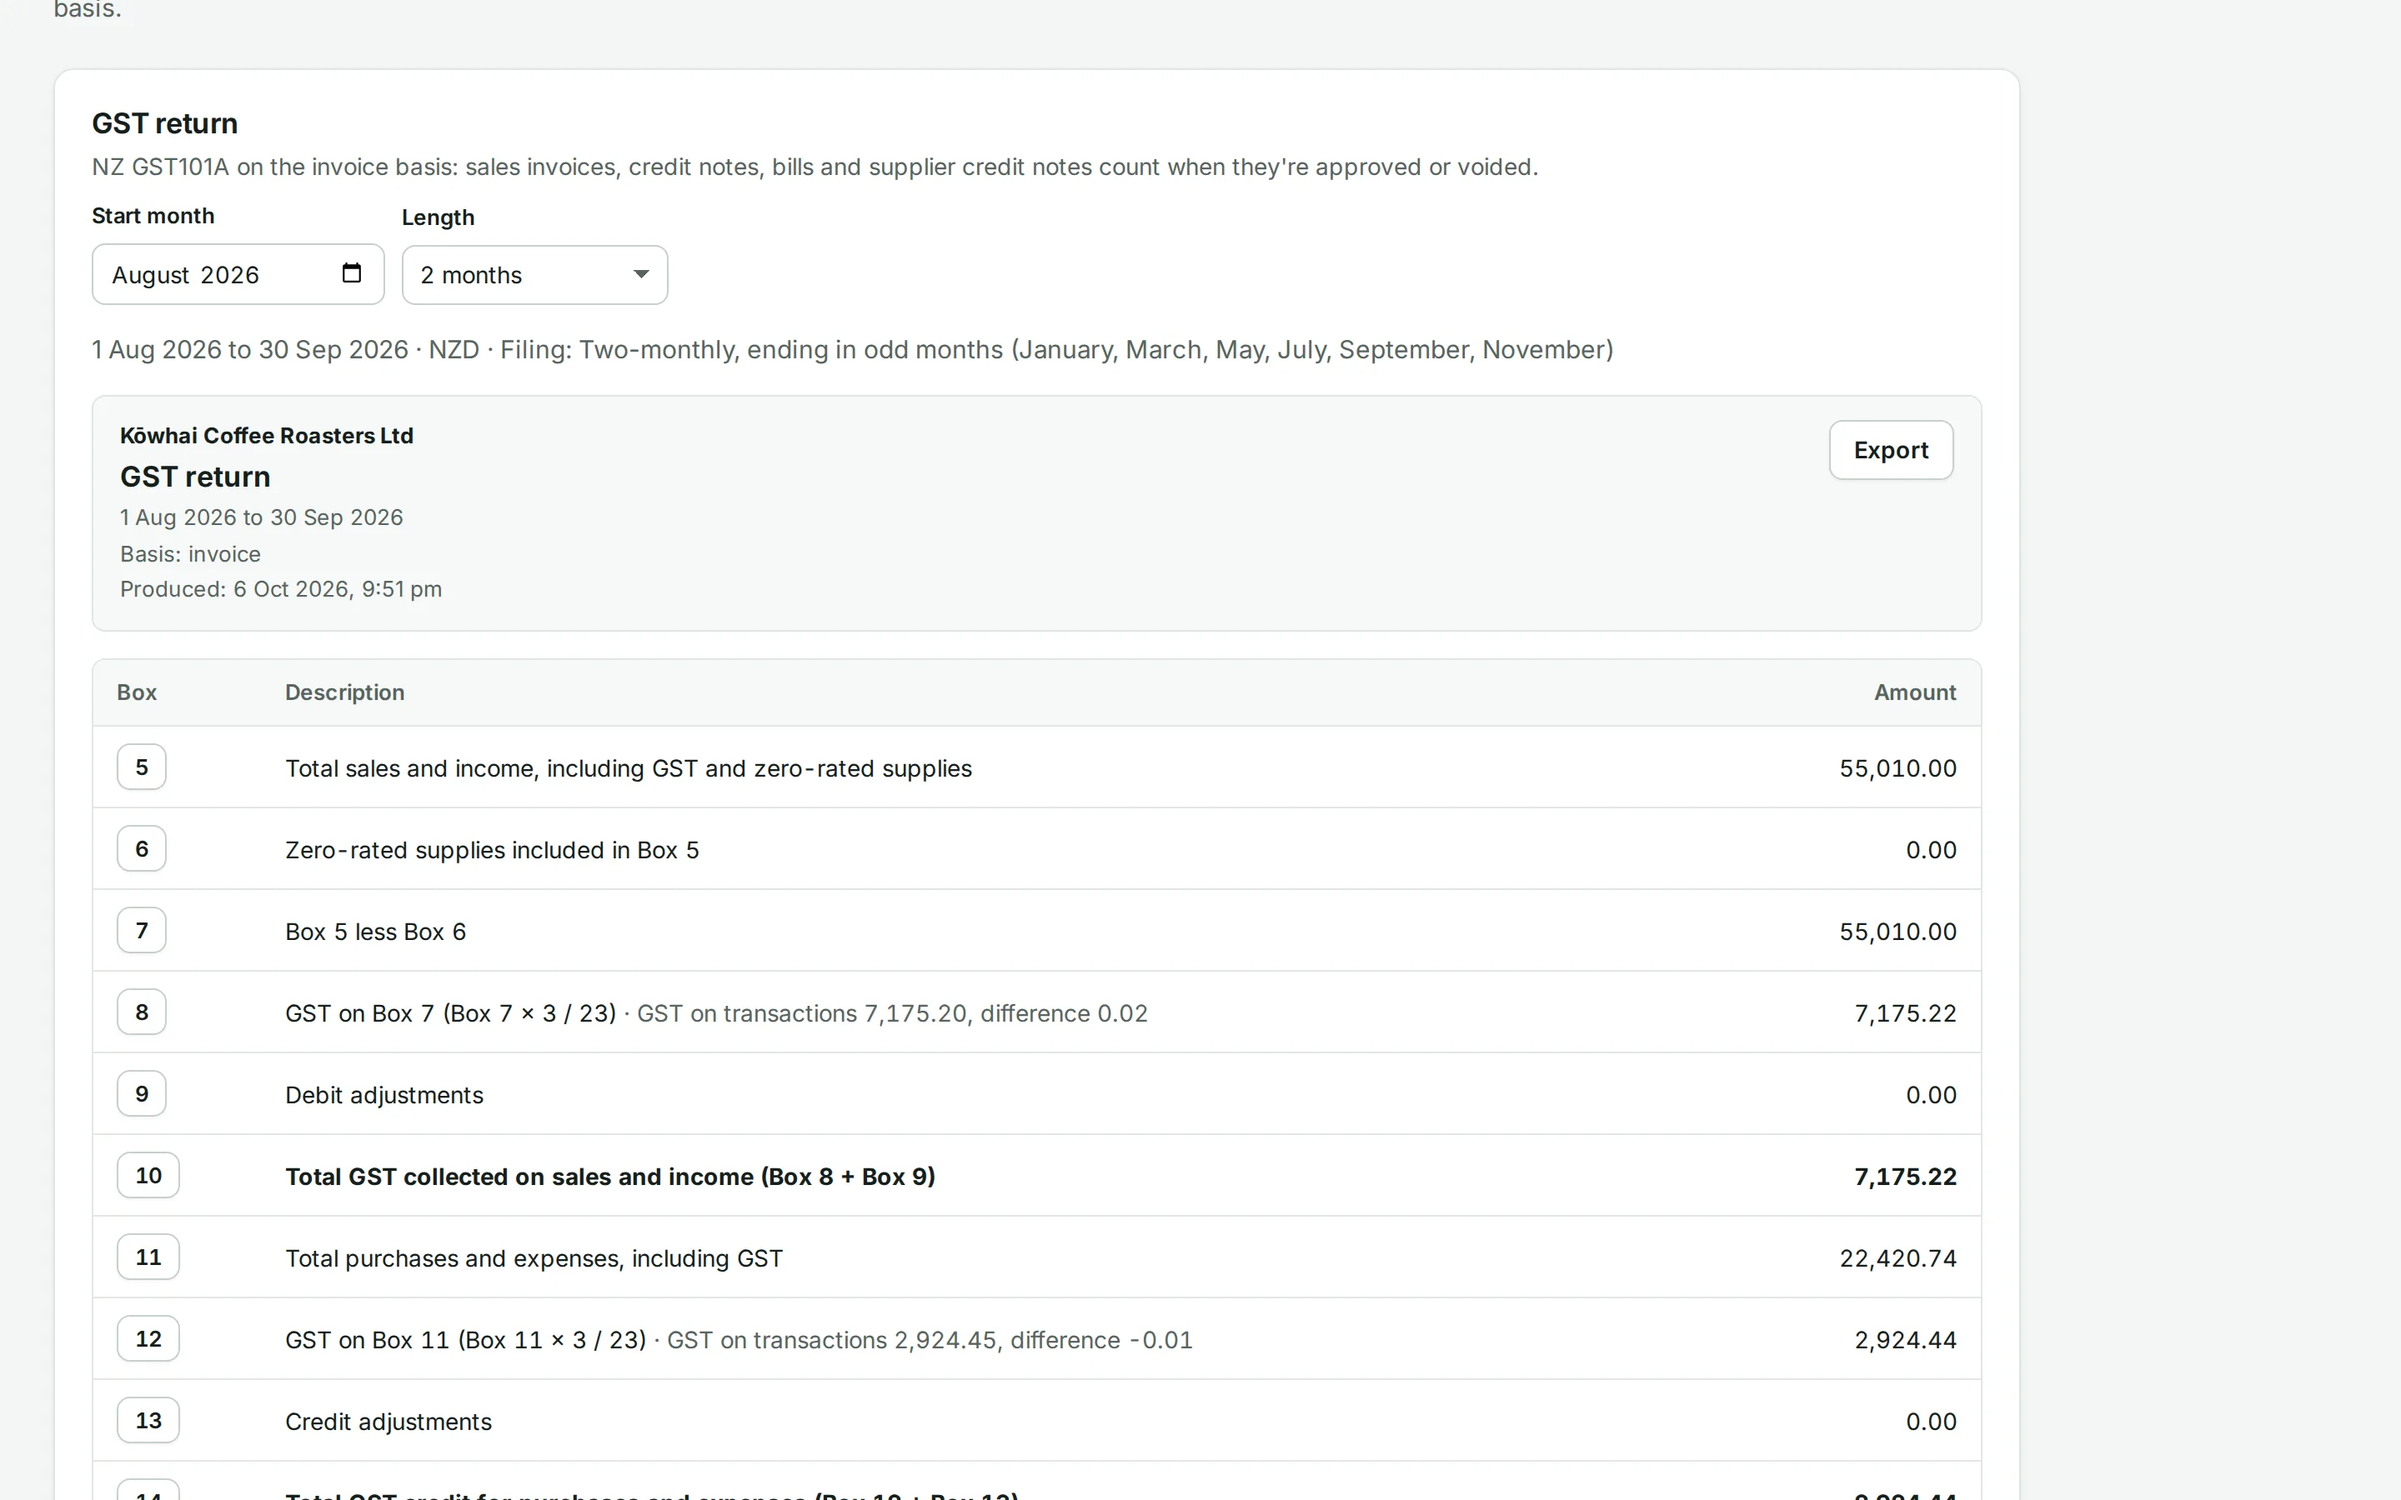
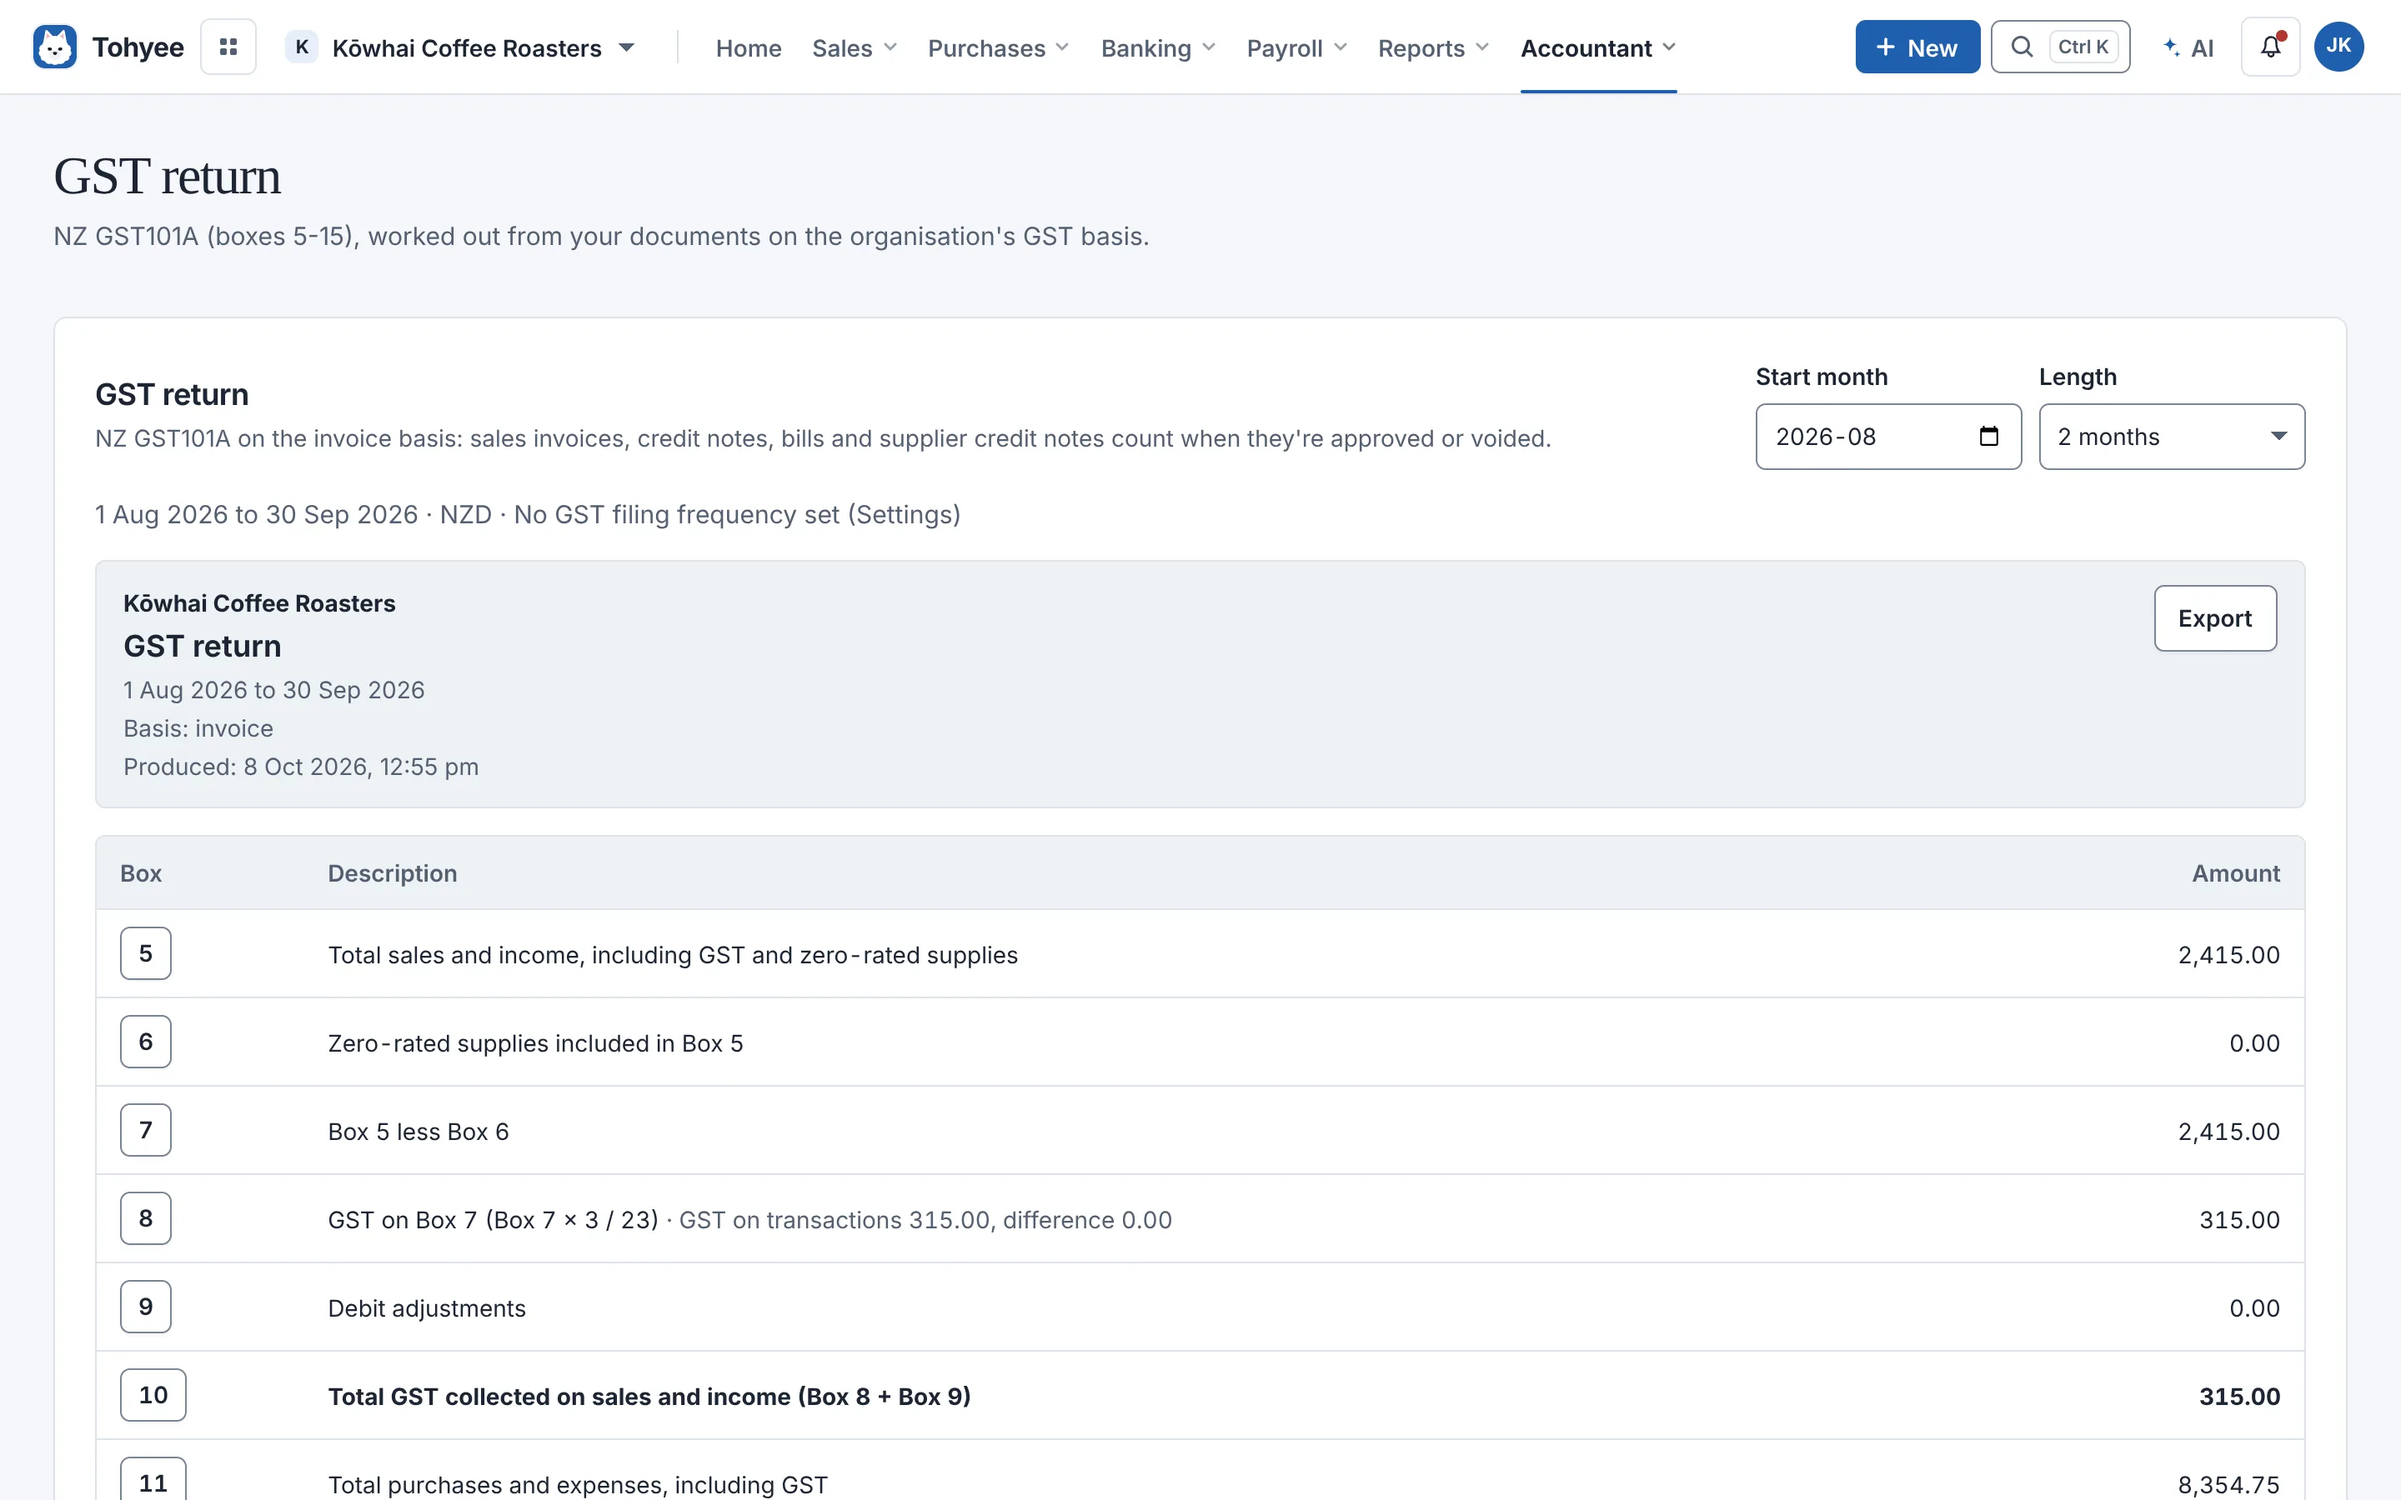
Website: blue colours and new screenshots
The website's green becomes the app's blues (light and dark, the logo and
the browser colour), and its screenshots are retaken from the current app
(blue, top bar, new Home with the Aoraki photo) with the same demo coffee
roaster.

Claude-Session: https://claude.ai/code/session_01YaYVajMmm1vgDV4HpVCV6D

diff --git a/website/index.html b/website/index.html
@@ -5,8 +5,8 @@
 <meta name="viewport" content="width=device-width, initial-scale=1">
 <title>Tohyee: accounting that's yours</title>
 <meta name="description" content="Tohyee is free, open-source accounting for New Zealand: invoices, bank feeds and reconciliation, GST returns, payroll and reports. It runs on your own computer, with no monthly fee.">
-<meta name="theme-color" content="#0e7467" media="(prefers-color-scheme: light)">
-<meta name="theme-color" content="#0c1110" media="(prefers-color-scheme: dark)">
+<meta name="theme-color" content="#1f5fae" media="(prefers-color-scheme: light)">
+<meta name="theme-color" content="#0b1018" media="(prefers-color-scheme: dark)">
 <meta property="og:title" content="Tohyee: accounting that's yours">
 <meta property="og:description" content="Free, open-source accounting for New Zealand that runs on your own computer.">
 <meta property="og:image" content="https://willy-nz.github.io/Tohyee/img/og-home.png">
@@ -22,13 +22,13 @@
     unicode-range: U+0100-02AF, U+0304, U+0308, U+0329, U+1E00-1E9F, U+1EF2-1EFF, U+2020, U+20A0-20AB, U+20AD-20C0, U+2113, U+2C60-2C7F, U+A720-A7FF; }
 
   :root {
-    --bg: #f6f8f7; --bg-tint: #eaf3f0; --surface: #ffffff; --surface-2: #f1f5f3;
-    --ink: #101a17; --muted: #55625d; --faint: #7d8984; --line: #e1e7e4; --line-strong: #cdd6d2;
-    --accent: #0e7467; --accent-hover: #0a5f54; --accent-soft: #e2f1ed; --accent-ink: #0a5248; --on-accent: #ffffff;
-    --glow-a: rgba(14, 116, 103, 0.20); --glow-b: rgba(52, 195, 168, 0.16);
+    --bg: #f5f7fa; --bg-tint: #e8eff9; --surface: #ffffff; --surface-2: #eef2f7;
+    --ink: #121a26; --muted: #546072; --faint: #7d8796; --line: #dde3eb; --line-strong: #c8d0db;
+    --accent: #1f5fae; --accent-hover: #184d8f; --accent-soft: #e6eef9; --accent-ink: #173f73; --on-accent: #ffffff;
+    --glow-a: rgba(31, 95, 174, 0.20); --glow-b: rgba(91, 156, 240, 0.16);
     --warn-bg: #fdf6e3; --warn-line: #efd28f; --warn-ink: #7a4b08;
-    --shadow: 0 1px 2px rgba(16, 26, 23, .05), 0 8px 24px rgba(16, 26, 23, .06);
-    --shadow-xl: 0 2px 6px rgba(16, 26, 23, .06), 0 30px 80px -20px rgba(16, 26, 23, .28);
+    --shadow: 0 1px 2px rgba(15, 23, 35, .05), 0 8px 24px rgba(15, 23, 35, .06);
+    --shadow-xl: 0 2px 6px rgba(15, 23, 35, .06), 0 30px 80px -20px rgba(15, 23, 35, .28);
     --radius: 14px; --radius-lg: 22px;
     --font: "Inter", ui-sans-serif, system-ui, -apple-system, "Segoe UI", Roboto, sans-serif;
     --mono: ui-monospace, SFMono-Regular, Menlo, Consolas, monospace;
@@ -36,10 +36,10 @@
   }
   @media (prefers-color-scheme: dark) {
     :root {
-      --bg: #0b100f; --bg-tint: #0f1a17; --surface: #121a18; --surface-2: #17211e;
-      --ink: #e4ebe8; --muted: #9ba8a3; --faint: #74817c; --line: #222d2a; --line-strong: #2e3b37;
-      --accent: #34c3a8; --accent-hover: #5fd6bf; --accent-soft: #12302a; --accent-ink: #7fe0cc; --on-accent: #06221d;
-      --glow-a: rgba(52, 195, 168, 0.16); --glow-b: rgba(14, 116, 103, 0.22);
+      --bg: #0b1018; --bg-tint: #0f1724; --surface: #121925; --surface-2: #18202e;
+      --ink: #e4e9f1; --muted: #9ba6b6; --faint: #748196; --line: #232c3b; --line-strong: #2f3a4c;
+      --accent: #5b9cf0; --accent-hover: #82b4f5; --accent-soft: #14243d; --accent-ink: #a9cbf7; --on-accent: #06172e;
+      --glow-a: rgba(91, 156, 240, 0.16); --glow-b: rgba(31, 95, 174, 0.22);
       --warn-bg: #241d0c; --warn-line: #5a4614; --warn-ink: #f0cf86;
       --shadow: 0 1px 2px rgba(0,0,0,.4), 0 8px 24px rgba(0,0,0,.3);
       --shadow-xl: 0 2px 6px rgba(0,0,0,.4), 0 30px 80px -20px rgba(0,0,0,.7);
@@ -92,7 +92,7 @@
   .hero::before { content: ""; position: absolute; inset: -120px -10% auto; height: 640px; z-index: -1;
     background: radial-gradient(42% 60% at 30% 30%, var(--glow-a), transparent 70%), radial-gradient(40% 55% at 72% 22%, var(--glow-b), transparent 70%); filter: blur(10px); }
   .hero h1 { font-size: clamp(40px, 6.6vw, 78px); letter-spacing: -0.04em; margin: 22px auto 0; max-width: 15ch; }
-  .hero h1 em { font-style: normal; background: linear-gradient(100deg, var(--accent) 10%, color-mix(in srgb, var(--accent) 55%, #34c3a8) 90%); -webkit-background-clip: text; background-clip: text; color: transparent; }
+  .hero h1 em { font-style: normal; background: linear-gradient(100deg, var(--accent) 10%, color-mix(in srgb, var(--accent) 55%, #5b9cf0) 90%); -webkit-background-clip: text; background-clip: text; color: transparent; }
   .hero .lede { margin-inline: auto; text-align: center; }
   .hero .buttons { display: flex; flex-wrap: wrap; gap: 12px; justify-content: center; margin-top: 30px; }
   .trust { display: flex; flex-wrap: wrap; justify-content: center; gap: 8px 22px; margin: 22px 0 0; padding: 0; list-style: none; font-size: 14px; color: var(--muted); }
@@ -154,7 +154,7 @@
 
   /* Phones */
   .phones { display: flex; gap: 28px; justify-content: center; align-items: flex-end; }
-  .phone { width: min(280px, 44vw); border-radius: 38px; padding: 10px; background: #0d1412; box-shadow: var(--shadow-xl); }
+  .phone { width: min(280px, 44vw); border-radius: 38px; padding: 10px; background: #0d1220; box-shadow: var(--shadow-xl); }
   .phone img { border-radius: 29px; }
   .phone.raise { transform: translateY(-36px); }
 
@@ -165,8 +165,8 @@
   .install ol li { display: list-item; }
   .install ol li::before { content: none; }
   .install .tile .btn { align-self: flex-start; margin-top: auto; }
-  pre { margin: 0; background: #0d1412; color: #d8e6e1; font: 12.5px/1.6 var(--mono); padding: 14px 16px; border-radius: 12px; white-space: pre-wrap; overflow-wrap: anywhere; }
-  pre .c { color: #7f9a92; }
+  pre { margin: 0; background: #0d1220; color: #d8e1ee; font: 12.5px/1.6 var(--mono); padding: 14px 16px; border-radius: 12px; white-space: pre-wrap; overflow-wrap: anywhere; }
+  pre .c { color: #7f8ea6; }
   code { font-family: var(--mono); font-size: .92em; }
 
   /* New, notice, FAQ */
@@ -261,7 +261,7 @@
       <div class="hero-shot">
         <div class="frame">
           <div class="bar" aria-hidden="true"><i></i><i></i><i></i><span>tohyee.local</span></div>
-          <img class="shot-light has-dark" src="img/home-light.webp" width="2880" height="1800" alt="Tohyee's Home page for a demo coffee roaster: cash in the bank, money owed, bills to pay, the next GST return and a to-do list">
+          <img class="shot-light has-dark" src="img/home-light.webp" width="2880" height="1800" alt="Tohyee's Home page for a demo coffee roaster: cash in the bank, money owed, bills to pay, the GST position and what needs attention">
           <img class="shot-dark" src="img/home-dark.webp" width="2880" height="1800" alt="" loading="lazy">
         </div>
       </div>
